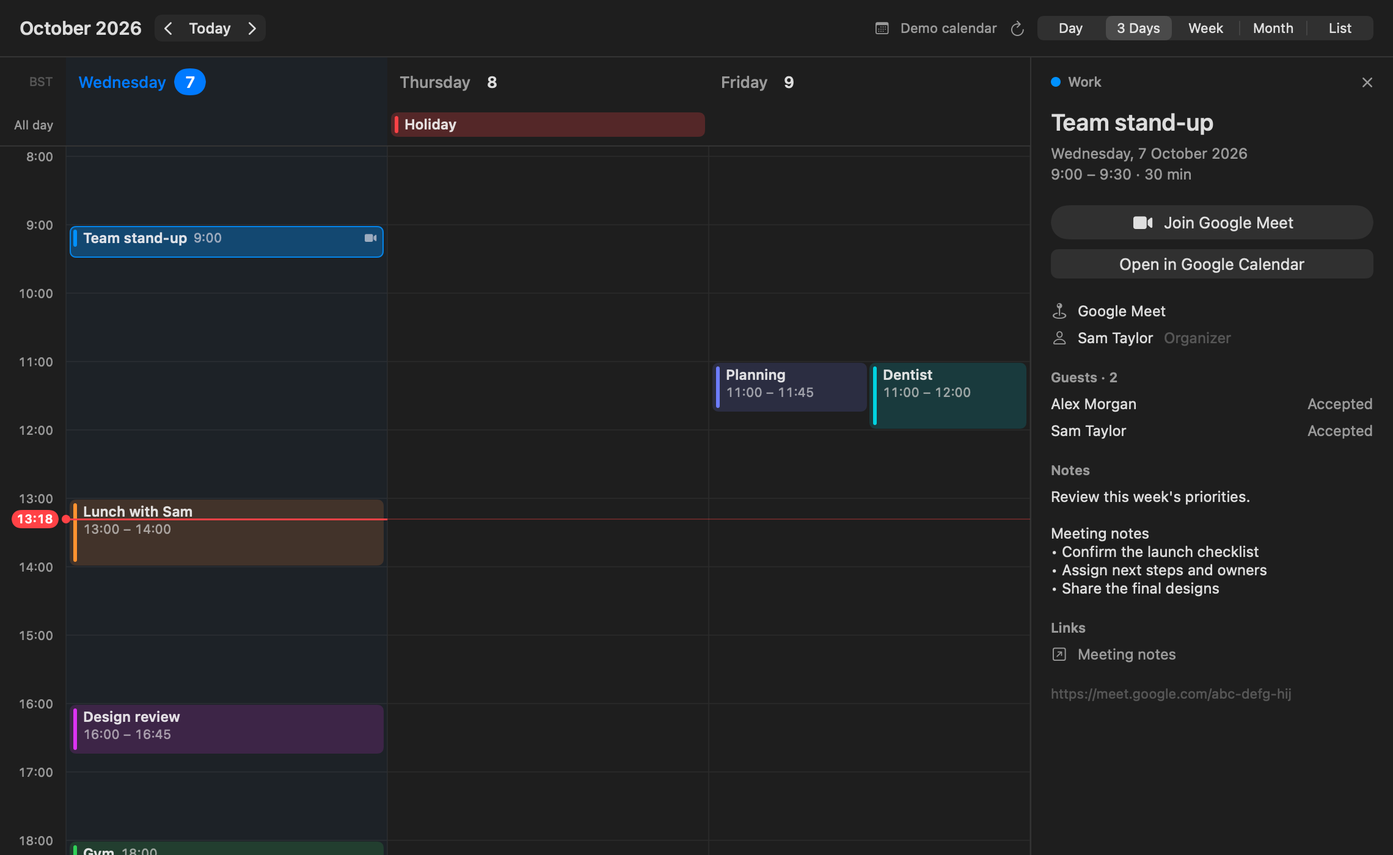
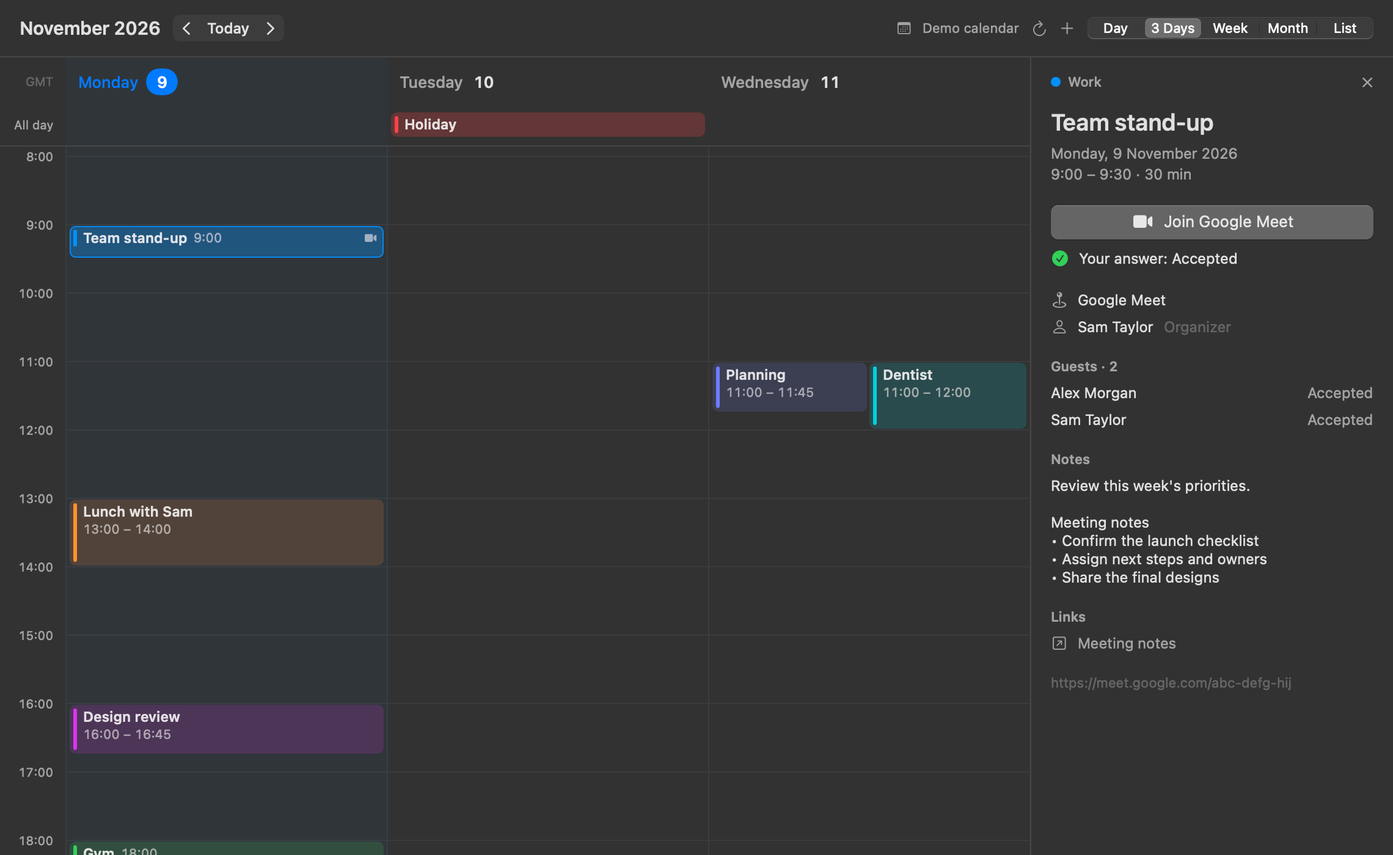
docs: describe 1.22.0 and refresh the site
Add tests for invitations, mail links, event drafts, calendar editing,
and the account registry. Add demo snapshots for the invitation card,
the event editor, and an event with Edit and Delete. Update the README,
AGENTS, development and mail guides, changelog, site text, and site
images. Set the version to 1.22.0.

diff --git a/site/index.html b/site/index.html
@@ -602,12 +602,15 @@
               <li><strong>Work through your inbox.</strong> Conversation groups, filters, bulk actions, rules, smart mailboxes, and VIP senders.</li>
               <li><strong>Write with care.</strong> Recipient suggestions, provider-authorized aliases, signatures, saved drafts, and explicit recovery after an uncertain send.</li>
               <li><strong>Plan your mail.</strong> Snooze messages and use Send Later. Jevcast must be running and your Mac awake; missed sends wait for review.</li>
+              <li><strong>Answer invitations.</strong> A meeting invitation shows as a card. Accept, Maybe, or Decline tells the organiser, and Add to Calendar saves the event.</li>
+              <li><strong>Stay on the keyboard.</strong> Archive, flag, mark junk, and move to a folder with keys. A mail address you click starts a new message here, and Jevcast can be your default mail app.</li>
+              <li><strong>Leave lists and tidy folders.</strong> Unsubscribe with one confirmed click. Make, rename, and remove your own folders.</li>
               <li><strong>Keep your archives.</strong> Import and export .eml and .mbox files without changing the originals.</li>
             </ul>
             <p><a href="https://github.com/RyanErkal/jevcast/blob/main/docs/MAIL_FEATURES.md">Read the feature guide and verification limits</a>.</p>
           </div>
           <figure class="auto-shot">
-            <img src="images/mail-workspace.png" width="2640" height="1656" loading="lazy" alt="Jevcast Mail inside the launcher with invented accounts, mailbox folders, message list, and reading pane." />
+            <img src="images/mail-invitation.png" width="2640" height="1656" loading="lazy" alt="Jevcast Mail inside the launcher with invented accounts. The message list shows each sender, subject, and the start of the text. A meeting invitation is open, with a card that shows its time and place and the buttons Accept, Maybe, and Decline. All mail is demo data." />
           </figure>
         </div>
       </section>
@@ -618,14 +621,17 @@
             <h2 id="calendar-title">Your day, from one shortcut.</h2>
             <p>
               Type <code>calendar</code> or hold Caps Lock and press <kbd>C</kbd>.
-              See the next three days on an hourly grid, open a meeting beside it, and join Google Meet.
+              See the next three days on an hourly grid, add and change events, open a meeting beside it, and join Google Meet.
             </p>
             <ul class="auto-points">
               <li><strong>Sign in with Google.</strong> Connect your Google Calendar directly, or use calendars already on your Mac.</li>
               <li><strong>See the time.</strong> 3 Days, Day, and Week have horizontal hour lines, all-day events, and a current-time marker. Month and List are there too. <kbd>←</kbd> and <kbd>→</kbd> switch views.</li>
               <li><strong>Open the details.</strong> Click an event to see its description, meeting notes, location, organiser, guests, and linked documents beside the calendar.</li>
               <li><strong>Join the meeting.</strong> Open the event's Google Meet link in your browser.</li>
-              <li><strong>Read-only Google access.</strong> Choose which calendars to show. Jevcast cannot change or delete your Google events.</li>
+              <li><strong>Add and change events.</strong> Press <kbd>⌘</kbd><kbd>N</kbd> or double-click a time. Edit, drag, or delete your events on the calendars of your Mac. Calendar does not need to be open.</li>
+              <li><strong>One view for every calendar.</strong> Show your Mac and several Google accounts together.</li>
+              <li><strong>Know when to join.</strong> A quiet mark beside the notch shows a few minutes before a meeting, with Join.</li>
+              <li><strong>Read-only Google access.</strong> Choose which calendars to show. Jevcast cannot change or delete events through your Google sign-in.</li>
             </ul>
             <p>
               Google sign-in uses your own free Desktop app client. The
@@ -639,7 +645,7 @@
               width="2280"
               height="1400"
               loading="lazy"
-              alt="Jevcast Calendar in 3 Days view, Wednesday to Friday on an hourly grid. A team stand-up is selected, and its details show beside the grid: the time, Join Google Meet, the organiser, two guests, meeting notes, and a link. Other events are a holiday, lunch, planning, a dentist appointment, a design review, and the gym. All events are demo data."
+              alt="Jevcast Calendar in 3 Days view, three days on an hourly grid, with buttons to refresh and to add an event. A team stand-up is selected, and its details show beside the grid: the time, Join Google Meet, your answer to the invitation, the organiser, two guests, meeting notes, and a link. Other events are a holiday, lunch, planning, a dentist appointment, a design review, and the gym. All events are demo data."
             />
           </figure>
         </div>
@@ -754,7 +760,7 @@
               <span class="net-icon"><svg class="icon" viewBox="0 0 24 24" fill="none" stroke="currentColor" stroke-width="1.5" aria-hidden="true"><path stroke-linecap="round" stroke-linejoin="round" d="M21.75 6.75v10.5a2.25 2.25 0 0 1-2.25 2.25h-15a2.25 2.25 0 0 1-2.25-2.25V6.75m19.5 0A2.25 2.25 0 0 0 19.5 4.5h-15a2.25 2.25 0 0 0-2.25 2.25m19.5 0v.243a2.25 2.25 0 0 1-1.07 1.916l-7.5 4.615a2.25 2.25 0 0 1-2.36 0L3.32 8.91a2.25 2.25 0 0 1-1.07-1.916V6.75" /></svg></span>
               <h3>Mail accounts</h3>
               <code>your mail servers</code>
-              <p>Only for accounts you add in Settings › Mail. Talks to that account's own IMAP and SMTP servers over TLS, and nothing else. Google or Microsoft sign-in uses your own OAuth client and their sign-in pages.</p>
+              <p>Only for accounts you add in Settings › Mail. Talks to that account's own IMAP and SMTP servers over TLS, and nothing else. An invitation answer or an unsubscribe email goes only after you click. Google or Microsoft sign-in uses your own OAuth client and their sign-in pages.</p>
               <a
                 class="net-link"
                 href="https://github.com/RyanErkal/jevcast/tree/main/Sources/LauncherCore/NativeMail"
@@ -782,7 +788,7 @@
               <span class="net-icon"><svg class="icon" viewBox="0 0 24 24" fill="none" stroke="currentColor" stroke-width="1.5" aria-hidden="true"><path stroke-linecap="round" stroke-linejoin="round" d="M8 2v4m8-4v4M3 10h18M5 4h14a2 2 0 0 1 2 2v14a2 2 0 0 1-2 2H5a2 2 0 0 1-2-2V6a2 2 0 0 1 2-2Z" /></svg></span>
               <h3>Google Calendar</h3>
               <code>Google sign-in and Calendar API</code>
-              <p>Only after you connect Google in Calendar. Reads the calendars you choose and their event details. Uses its own read-only token in the Keychain. It does not use your Mail token.</p>
+              <p>Only after you connect Google in Calendar. Reads the calendars you choose and their event details, also in the background while the notice before meetings is on. Uses its own read-only token in the Keychain. It does not use your Mail token.</p>
               <a class="net-link" href="https://github.com/RyanErkal/jevcast/tree/main/Sources/LauncherCore/Calendar">Read the code<span aria-hidden="true"> ↗</span></a>
             </li>
           </ul>
@@ -854,6 +860,14 @@ scripts/build.sh</code></pre>
             </p>
           </div>
           <ol class="releases">
+            <li class="release">
+              <div class="release-head"><span class="release-tag">1.22.0</span><time datetime="2026-11-09">9 November 2026</time></div>
+              <ul>
+                <li><strong>Calendar without Calendar.</strong> Add, change, drag, and delete events on your Mac's calendars. Show your Mac and several Google accounts together. A quiet mark shows before a meeting, with Join.</li>
+                <li><strong>Mail without Mail.</strong> Answer invitations, unsubscribe from lists, manage folders, and open mail links in Jevcast. New keys archive, flag, and move.</li>
+                <li><strong>Faster and calmer.</strong> The mail list no longer redraws while you type. Conversations show one title and close older replies. Google Calendar keeps what it fetched.</li>
+              </ul>
+            </li>
             <li class="release">
               <div class="release-head"><span class="release-tag">1.21.3</span><time datetime="2026-10-09">9 October 2026</time></div>
               <ul>

diff --git a/Sources/JevLauncher/MailSnapshots.swift b/Sources/JevLauncher/MailSnapshots.swift
@@ -13,6 +13,7 @@ enum MailSnapshots {
             ("mail-reply", AnyView(reply()), NSSize(width: 820, height: 760)),
             panel("mail-outbox", outbox()),
             panel("mail-workspace", MailPage(mail: workspace())),
+            panel("mail-invitation", MailPage(mail: workspace(invitation: true))),
             panel("mail-thread", thread()),
             panel("mail-thread-compact", thread(), width: 980),
             panel("mail-thread-smallest", thread(), width: 860),
@@ -182,7 +183,7 @@ enum MailSnapshots {
     }
 
     /// Invented accounts, folders, and messages, ready as the panel shows them. The first message is selected.
-    static func workspace(drafts: Bool = false, search: Bool = false, providerFoldersExpanded: Bool = false) -> MailModel {
+    static func workspace(drafts: Bool = false, search: Bool = false, providerFoldersExpanded: Bool = false, invitation: Bool = false) -> MailModel {
         let model = fixture()
         let roles: [MailMailbox.Role] = [.inbox, .drafts, .sent, .archive, .junk, .trash, .other, .other, .other, .other]
         let names = ["INBOX", "[Gmail]/Drafts", "[Gmail]/Sent Mail", "[Gmail]/All Mail", "[Gmail]/Spam", "[Gmail]/Trash",
@@ -195,15 +196,21 @@ enum MailSnapshots {
         } + [MailMailbox(rowID: 20, url: "imap://personal/INBOX", unread: 2, total: 25, serverRole: .inbox)]
         let subjects = ["Friday's Plan", "Design Review", "October Invoice", "Launch Checklist", "Project Update", "Catch Up Next Week"]
         let people = ["Sam Lee", "Jamie Park", "Accounts", "Alex Chen", "Morgan Riley", "Casey"]
-        let messages = subjects.enumerated().map { offset, subject in
-            MailSummary(rowID: Int64(offset + 1), mailbox: 1, subject: subject, senderName: people[offset],
-                        senderAddress: "sender\(offset)@example.com", snippet: "", date: Date().addingTimeInterval(Double(-offset * 3600)),
+        let previews = ["Friday at 10 works well. Please find the agenda attached.", "You are invited to the design review on Thursday.",
+                        "Your invoice for October is ready to view.", "Two items are left before we can ship.",
+                        "The first phase is complete. Here is what comes next.", "Are you free for a call on Tuesday?"]
+        var messages = subjects.enumerated().map { offset, subject in
+            MailSummary(rowID: Int64(offset + 1), mailbox: offset == 4 ? 20 : 1, subject: subject, senderName: people[offset],
+                        senderAddress: "sender\(offset)@example.com", snippet: previews[offset], date: Date().addingTimeInterval(Double(-offset * 3600)),
                         read: offset > 1, flagged: offset == 1, conversation: Int64(offset + 1))
         }
+        // The invitation fixture opens on the invitation.
+        if invitation { messages.swapAt(0, 1) }
         var message = OutgoingMessage(from: .init(name: "Sam Lee", address: "sam@example.com"), to: [.init(address: "alex@example.com")],
                                       subject: "Friday's Plan", body: "Hi Alex,\n\nFriday at 10 works well. Please find the agenda attached.\n\nSee you then,\nSam")
         message.attachments = [.init(filename: "Agenda.pdf", mimeType: "application/pdf", data: Data(repeating: 0, count: 2048))]
-        let detail = MIMEMessage.parse(MailComposer.render(message))
+        var detail = MIMEMessage.parse(MailComposer.render(message))
+        if invitation { detail = MIMEMessage.parse(Data(invitationMessage().utf8)) }
         model.installDemo(mailboxes: boxes, messages: drafts ? [] : search ? messages.filter { $0.subject.contains("Friday") } : messages, detail: detail)
         model.favoriteMailboxKeys = [boxes[7].url]
         if providerFoldersExpanded { model.expandedSidebarGroupKeys = ["demo:[Gmail]"] }
@@ -221,13 +228,29 @@ enum MailSnapshots {
         return model
     }
 
+    /// An invented invitation, as a calendar server sends it: text for people and iCalendar for programs.
+    static func invitationMessage() -> String {
+        let day = Calendar.current.date(byAdding: .day, value: 2, to: Date()) ?? Date()
+        let stamp = day.formatted(.iso8601.year().month().day().dateSeparator(.omitted))
+        let calendar = ["BEGIN:VCALENDAR", "VERSION:2.0", "METHOD:REQUEST", "BEGIN:VEVENT", "UID:demo-design-review@example.com", "SEQUENCE:0",
+                        "DTSTART:\(stamp)T100000", "DTEND:\(stamp)T104500", "SUMMARY:Design Review", "LOCATION:Studio, Room 4",
+                        "ORGANIZER;CN=Jamie Park:mailto:jamie@example.com", "ATTENDEE;CN=Alex Morgan;PARTSTAT=NEEDS-ACTION:mailto:alex@example.com",
+                        "ATTENDEE;CN=Sam Lee;PARTSTAT=ACCEPTED:mailto:sam@example.com", "END:VEVENT", "END:VCALENDAR"].joined(separator: "\r\n")
+        return "From: Jamie Park <jamie@example.com>\r\nTo: alex@example.com\r\nSubject: Design Review\r\nMIME-Version: 1.0\r\n"
+            + "Content-Type: multipart/alternative; boundary=\"demo\"\r\n\r\n--demo\r\nContent-Type: text/plain; charset=utf-8\r\n\r\n"
+            + "Hi Alex,\n\nYou are invited to the design review on Thursday. We will look at the new onboarding screens.\n\nJamie\r\n"
+            + "--demo\r\nContent-Type: text/calendar; method=REQUEST; charset=utf-8\r\n\r\n" + calendar + "\r\n--demo--\r\n"
+    }
+
     static func thread() -> MailPage {
         let model = workspace()
         let first = model.messages[0]
         let replies = (0..<4).map { offset in
             MailSummary(rowID: Int64(100 + offset), mailbox: 1, subject: "Re: Friday's Plan",
                 senderName: offset % 2 == 0 ? "Sam Lee" : "Alex Morgan", senderAddress: offset % 2 == 0 ? "sam@example.com" : "alex@example.com",
-                snippet: "", date: first.date.addingTimeInterval(Double(-offset * 3600)), read: offset > 0,
+                snippet: ["Confirmed. See you Friday at 10!", "Thanks Sam. Could we start at 10?", "Friday works. Shall we meet at the studio?",
+                          "Are you free to review the designs this week?"][offset],
+                date: first.date.addingTimeInterval(Double(-offset * 3600)), read: offset > 0,
                 flagged: false, conversation: 900)
         }
         model.messages = replies + model.messages.dropFirst()

diff --git a/Sources/JevLauncher/MailThreadHTML.swift b/Sources/JevLauncher/MailThreadHTML.swift
@@ -30,7 +30,7 @@ enum MailThreadHTML {
         + ".jev-date{margin-left:auto;white-space:nowrap}"
         + ".jev-message:not([open])>summary .jev-address{display:none}"
         + ".jev-message:not([open])>summary .jev-snippet{display:block}"
-        + ".jev-meta{padding:0 18px 4px;display:block}"
+        + ".jev-facts{display:flex;flex-wrap:wrap;gap:2px 16px;padding:0 18px 4px}"
         + ".jev-body{padding:6px 18px 18px}"
         + ".jev-html{background:#fff;color:#202124}"
         + ".jev-plain{font:14px -apple-system,sans-serif}"
@@ -42,8 +42,17 @@ enum MailThreadHTML {
         + "body{background:#1c1c1e;color:#e8e8ea}"
         + ".jev-address,.jev-date,.jev-snippet,.jev-meta{color:#a0a0a5}"
         + ".jev-html{border-radius:8px;padding:12px}"
+        + ".jev-html.jev-simple{background:transparent;color:inherit;border-radius:0;padding:0}"
+        + ".jev-simple a{color:#6cb4ff}"
         + ".jev-plain a{color:#6cb4ff}}"
         + "</style>"
+
+    /// True for HTML that is only text: no layout, images, or colors of its own. Such a message
+    /// follows the page's appearance. Any designed message keeps a white page, so it reads as sent.
+    static func isSimple(_ html: String) -> Bool {
+        let text = html.lowercased()
+        return !["<table", "<img", "<style", "<font", "bgcolor", "background", "color"].contains { text.contains($0) }
+    }
 
     static func render(_ entries: [Entry], prefersPlain: Bool) -> String {
         guard let first = entries.first else { return style }
@@ -72,13 +81,15 @@ enum MailThreadHTML {
             var quotes = ""
             if let body = entry.body {
                 if !prefersPlain, let html = body.html {
-                    content = "<div class=\"jev-html\">" + MailHTML.threadFragment(html, className: "jev-body-" + id) + "</div>"
+                    content = "<div class=\"jev-html" + (isSimple(html) ? " jev-simple" : "") + "\">"
+                        + MailHTML.threadFragment(html, className: "jev-body-" + id) + "</div>"
                     if html.range(of: #"(?is)blockquote\b[^>]*type\s*=\s*["']?cite|gmail_quote|yahoo_quoted"#, options: .regularExpression) != nil {
                         quotes = "<label class=\"jev-meta\"><input class=\"jev-quotes\" type=\"checkbox\"> Show quoted text</label>"
                     }
                 } else { content = "<div class=\"jev-plain\">" + MailHTML.plain(body.message.readableText) + "</div>" }
             } else { content = "<p class=\"jev-plain\">This message has not downloaded yet.</p>" }
-            return "<details class=\"jev-message\"" + (open ? " open" : "") + ">" + summary + facts + quotes
+            let line = facts.isEmpty && quotes.isEmpty ? "" : "<div class=\"jev-facts\">" + facts + quotes + "</div>"
+            return "<details class=\"jev-message\"" + (open ? " open" : "") + ">" + summary + line
                 + "<div class=\"jev-body\">" + content + "</div></details>"
         }.joined()
     }

diff --git a/Sources/JevLauncher/CalendarSnapshots.swift b/Sources/JevLauncher/CalendarSnapshots.swift
@@ -1,4 +1,5 @@
 import AppKit
+import LauncherCore
 import SwiftUI
 
 /// Demo-only views. CalendarPage never reads EventKit, accounts, tokens, or preferences here.
@@ -7,15 +8,19 @@ enum CalendarSnapshots {
     static func writeAll(to directory: String) {
         let rig = LauncherSnapshotRig(catalogue: AppCatalogue(loadCache: false, roots: DemoData.appRoots, persistsCache: false), demo: true)
         let names = ["calendar-3-days", "calendar-3-days-details", "calendar-3-days-light", "calendar-3-days-compact",
-                     "calendar-week", "calendar-day", "calendar-month", "calendar-google-sign-in"]
+                     "calendar-week", "calendar-day", "calendar-month", "calendar-google-sign-in",
+                     "calendar-new-event", "calendar-own-event"]
         func render(_ index: Int) {
             guard index < names.count else { rig.removePreferences(); NSApp.terminate(nil); return }
             let name = names[index]
             let list = SourcePage(.calendar, source: nil, model: rig.model, hasDetail: true, emptyText: "")
             let defaults = UserDefaults(suiteName: LauncherSnapshotRig.suite)!
             let account = GoogleCalendarAccount(defaults: defaults, readToken: { nil }, saveToken: { _ in }, deleteToken: {}, readSecret: { nil })
-            let page = CalendarPage(list: list, readsEvents: false, google: name == "calendar-3-days-compact" ? account : nil)
+            let page = CalendarPage(list: list, readsEvents: false, google: name == "calendar-3-days-compact" ? account : nil,
+                                    writer: DemoCalendarWriter())
             page.opened()
+            if name == "calendar-new-event" { page.beginCreate() }
+            if name == "calendar-own-event", let event = page.displayedEvents.first(where: { $0.id == "demo2" }) { page.select(event) }
             if name == "calendar-3-days-compact", let month = Calendar.current.dateInterval(of: .month, for: Date()) {
                 page.showDay(month.end.addingTimeInterval(-86_400 - 1)); page.setMode(.threeDays)
             }
@@ -44,4 +49,16 @@ enum CalendarSnapshots {
         }
         render(0)
     }
+}
+
+/// Invented calendars for demo images. It saves nothing.
+@MainActor
+struct DemoCalendarWriter: CalendarWriting {
+    func calendars() -> [WritableCalendar] {
+        [WritableCalendar(id: "work", title: "Work", account: "iCloud", color: .blue), WritableCalendar(id: "home", title: "Home", account: "iCloud", color: .green)]
+    }
+    var defaultCalendarID: String? { "work" }
+    func allowed() async -> Bool { true }
+    func save(_ draft: CalendarEventDraft, eventID: String?, occurrence: Date?, future: Bool) throws {}
+    func delete(eventID: String, occurrence: Date?, future: Bool) throws {}
 }

diff --git a/Sources/JevLauncher/App.swift b/Sources/JevLauncher/App.swift
@@ -228,6 +228,11 @@ final class AppDelegate: NSObject, NSApplicationDelegate, NSWindowDelegate, AppC
         MailFeatureCenter.shared.start(model: mailModel)
         CalendarAlertCenter.shared.openCalendar = { [weak self] in self?.showView(.calendar) }
         MailLinkRouter.compose = { [weak self] link in self?.composeMail(link) ?? false }
+        mailLinksReady = true
+        if let link = pendingMailLink {
+            pendingMailLink = nil
+            DispatchQueue.main.async { [weak self] in self?.openMailLink(link) }
+        }
         if !MailIOPolicy.isOffline { CalendarAlertCenter.shared.start() }
         // The runner opened the app for an alert: AutomationCenter shows it; nothing else opens.
         if alertLaunch { return }
@@ -612,6 +617,8 @@ final class AppDelegate: NSObject, NSApplicationDelegate, NSWindowDelegate, AppC
         if let rowID { (model.page as? MailPage)?.show(rowID) }
         if let address { mailModel.compose(to: address) }
     }
+    private var mailLinksReady = false
+    private var pendingMailLink: MailtoLink?
     /// A `mailto:` link as a new message in the panel. False when Jevcast's own mail accounts are not in use.
     @discardableResult
     func composeMail(_ link: MailtoLink) -> Bool {
@@ -622,10 +629,13 @@ final class AppDelegate: NSObject, NSApplicationDelegate, NSWindowDelegate, AppC
     }
     /// macOS sends mail links here when Jevcast is the default mail app.
     func application(_ application: NSApplication, open urls: [URL]) {
-        for url in urls.prefix(1) where url.scheme?.lowercased() == "mailto" {
-            guard let link = MailtoLink(url) else { continue }
-            if !composeMail(link) { model.showFailure("Add a mail account in Settings › Mail to write mail in Jevcast.") }
-        }
+        guard let link = urls.lazy.filter({ $0.scheme?.lowercased() == "mailto" }).compactMap(MailtoLink.init).first else { return }
+        // A link that started the app arrives before the app is ready. It opens once launch is done.
+        guard mailLinksReady else { pendingMailLink = link; return }
+        openMailLink(link)
+    }
+    private func openMailLink(_ link: MailtoLink) {
+        if !composeMail(link) { model.showFailure("Add a mail account in Settings › Mail to write mail in Jevcast.") }
     }
     /// The running shell, or a new one. When the shell exits, the view closes and the next
     /// Hyper–T starts a new shell. Nil when libghostty cannot start.

diff --git a/Sources/JevLauncher/MailModel.swift b/Sources/JevLauncher/MailModel.swift
@@ -190,7 +190,7 @@ final class MailModel: ObservableObject {
     var serverSearchRows: [MailSummary] = []
     var fingerprint = ""
     private var poll: Task<Void, Never>?
-    private var isDemo = false
+    private(set) var isDemo = false
     private var searchWork: Task<Void, Never>?
     var loadWork: Task<Void, Never>?
     /// The newest and oldest cursors for the current list.
@@ -290,7 +290,10 @@ final class MailModel: ObservableObject {
                 guard let self, self.poll != nil else { return }
                 self.loadSenders()
                 // A change of mail source, or a first account, needs the store found again.
-                if NativeMailCenter.isActive, let root = self.root, NativeMailCenter.isNativeRoot(root) { self.refresh() } else { self.refreshStatus() }
+                if NativeMailCenter.isActive, let root = self.root, NativeMailCenter.isNativeRoot(root) {
+                    // A refresh that could not start now is tried again at the next check.
+                    if !self.refresh() { self.fingerprint = "" }
+                } else { self.refreshStatus() }
             }
     }
     private var defaultsObserver: AnyCancellable?
@@ -361,7 +364,7 @@ final class MailModel: ObservableObject {
                 // Jevcast's own store announces each change, so its file is checked only as a
                 // slow safety net. Apple Mail's index has no notice and is checked every time.
                 let native = NativeMailCenter.isActive && NativeMailCenter.isNativeRoot(root)
-                if !native || ticks % 5 == 0 {
+                if !native || ticks % 5 == 0 || self.fingerprint.isEmpty {
                     let current = await Task.detached { MailStore.fingerprint(root: root) }.value
                     if current != self.fingerprint, self.refresh() { self.fingerprint = current }
                 }

diff --git a/Sources/JevLauncher/CalendarPage.swift b/Sources/JevLauncher/CalendarPage.swift
@@ -332,8 +332,9 @@ final class CalendarPage: ObservableObject, LauncherPage {
         byDay = result
         // The details follow the event when it changes, and close when it is gone.
         if let selected = selectedEvent, editing == nil {
-            selectedEvent = events.first { $0.id == selected.id }
+            let next = events.first { $0.id == selected.id }
                 ?? events.first { $0.localID != nil && $0.localID == selected.localID && $0.start == selected.start }
+            if next != selected { selectedEvent = next }
         }
     }
     func inMonth(_ day: Date) -> Bool { mode != .month || calendar.isDate(day, equalTo: anchor, toGranularity: .month) }
@@ -510,7 +511,9 @@ final class CalendarPage: ObservableObject, LauncherPage {
                          guests: index == 0 ? [CalendarGuest(name: "Alex Morgan", response: "accepted"), CalendarGuest(name: "Sam Taylor", response: "accepted")] : [],
                          attachments: index == 0 ? [CalendarAttachment(title: "Meeting notes", url: URL(string: "https://docs.google.com/document/d/demo")!)] : [],
                          meetingURL: index == 0 ? URL(string: "https://meet.google.com/abc-defg-hij") : nil,
-                         webURL: index == 0 ? URL(string: "https://calendar.google.com/") : nil)
+                         webURL: index == 0 ? URL(string: "https://calendar.google.com/") : nil,
+                         // Your own demo events can be changed; the one you were invited to shows your answer.
+                         localID: "demo\(index)", editable: index != 0, calendarID: "work", myResponse: index == 0 ? "accepted" : nil)
         }
     }
 

diff --git a/Sources/LauncherCore/NativeMail/MailAccountSync+Folders.swift b/Sources/LauncherCore/NativeMail/MailAccountSync+Folders.swift
@@ -38,8 +38,6 @@ extension MailAccountSync {
         let full = parts.joined(separator: delimiter)
         guard full != box.name else { return }
         guard !taken(full) else { throw MailError.notFound("A folder with this name already exists.") }
-        // The sync and wait connections may have this mailbox selected under its old name.
-        await syncClient.drop()
         try await actionClient.renameMailbox(box.name, to: full)
         await relist()
     }
@@ -51,7 +49,6 @@ extension MailAccountSync {
         guard !mailboxes.contains(where: { $0.name.hasPrefix(box.name + delimiter) }) else {
             throw MailError.notFound("This folder holds other folders. Remove or move them first. Nothing was changed.")
         }
-        await syncClient.drop()
         try await actionClient.deleteEmptyMailbox(box.name)
         await relist()
     }

diff --git a/Sources/JevLauncher/MailInviteCard.swift b/Sources/JevLauncher/MailInviteCard.swift
@@ -47,9 +47,10 @@ struct MailInviteCard: View {
     }
 
     @ViewBuilder private var actions: some View {
-        if invite.method == .request {
+        // A cancellation or another guest's answer has nothing to answer or add.
+        if invite.method != .cancel, invite.method != .reply {
             VStack(alignment: .trailing, spacing: 6) {
-                if model.canAnswerInvite {
+                if invite.method == .request, model.canAnswerInvite {
                     HStack(spacing: 6) {
                         answer(.accepted, "Accept")
                         answer(.tentative, "Maybe")

diff --git a/Sources/LauncherCore/NativeMail/MailSyncSignal.swift b/Sources/LauncherCore/NativeMail/MailSyncSignal.swift
@@ -82,8 +82,8 @@ public struct MailSyncPolicy: Sendable {
     public var inboxFullCheck: TimeInterval = 30
     /// Inbox bodies read ahead so new mail opens at once, and the largest read ahead.
     /// Other bodies are read when opened.
-    public var prefetchInbox = 150
-    public var prefetchMaxSize: Int64 = 3_000_000
+    public var prefetchInbox = 100
+    public var prefetchMaxSize: Int64 = 2_000_000
     public var bodyBatch = 10
     /// A pass over the inbox and opened folders, when IDLE reports nothing sooner.
     public var periodic: TimeInterval = 300

diff --git a/Sources/JevLauncher/MailModel+Invites.swift b/Sources/JevLauncher/MailModel+Invites.swift
@@ -11,7 +11,7 @@ extension MailModel {
     }
 
     /// True when Accept, Maybe, and Decline can send an answer: a request, in a Jevcast account.
-    var canAnswerInvite: Bool { invite?.canReply == true && inviteAccount != nil }
+    var canAnswerInvite: Bool { invite?.canReply == true && (inviteAccount != nil || isDemo) }
 
     /// Your answer to the invitation on screen: the one sent from this Mac, or the one the invitation records.
     var inviteAnswer: CalendarInvite.Response? {
